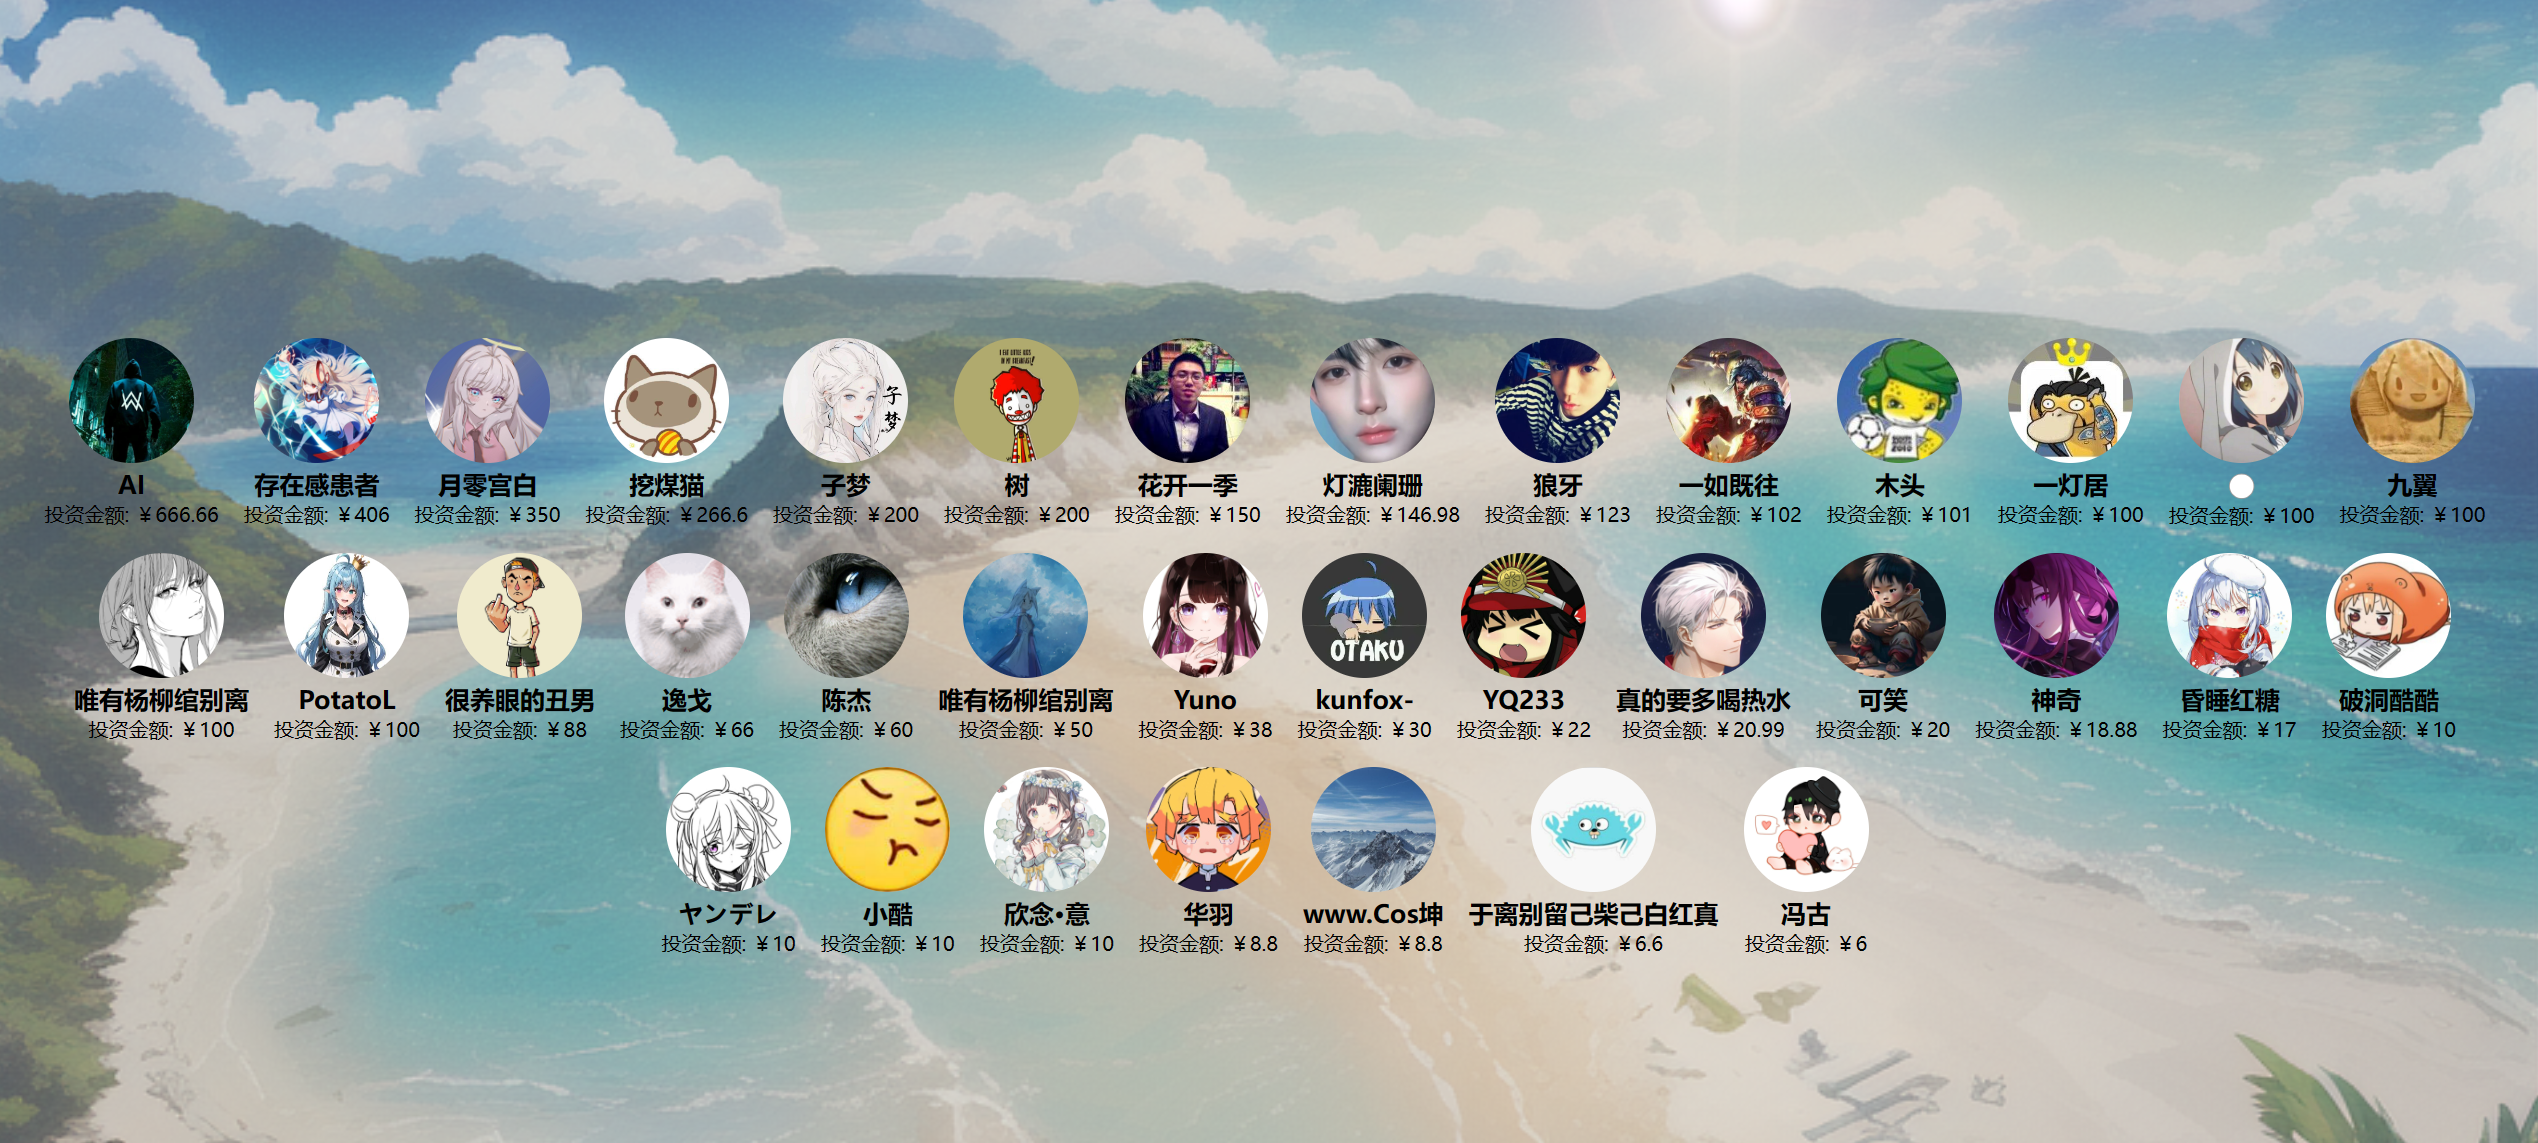
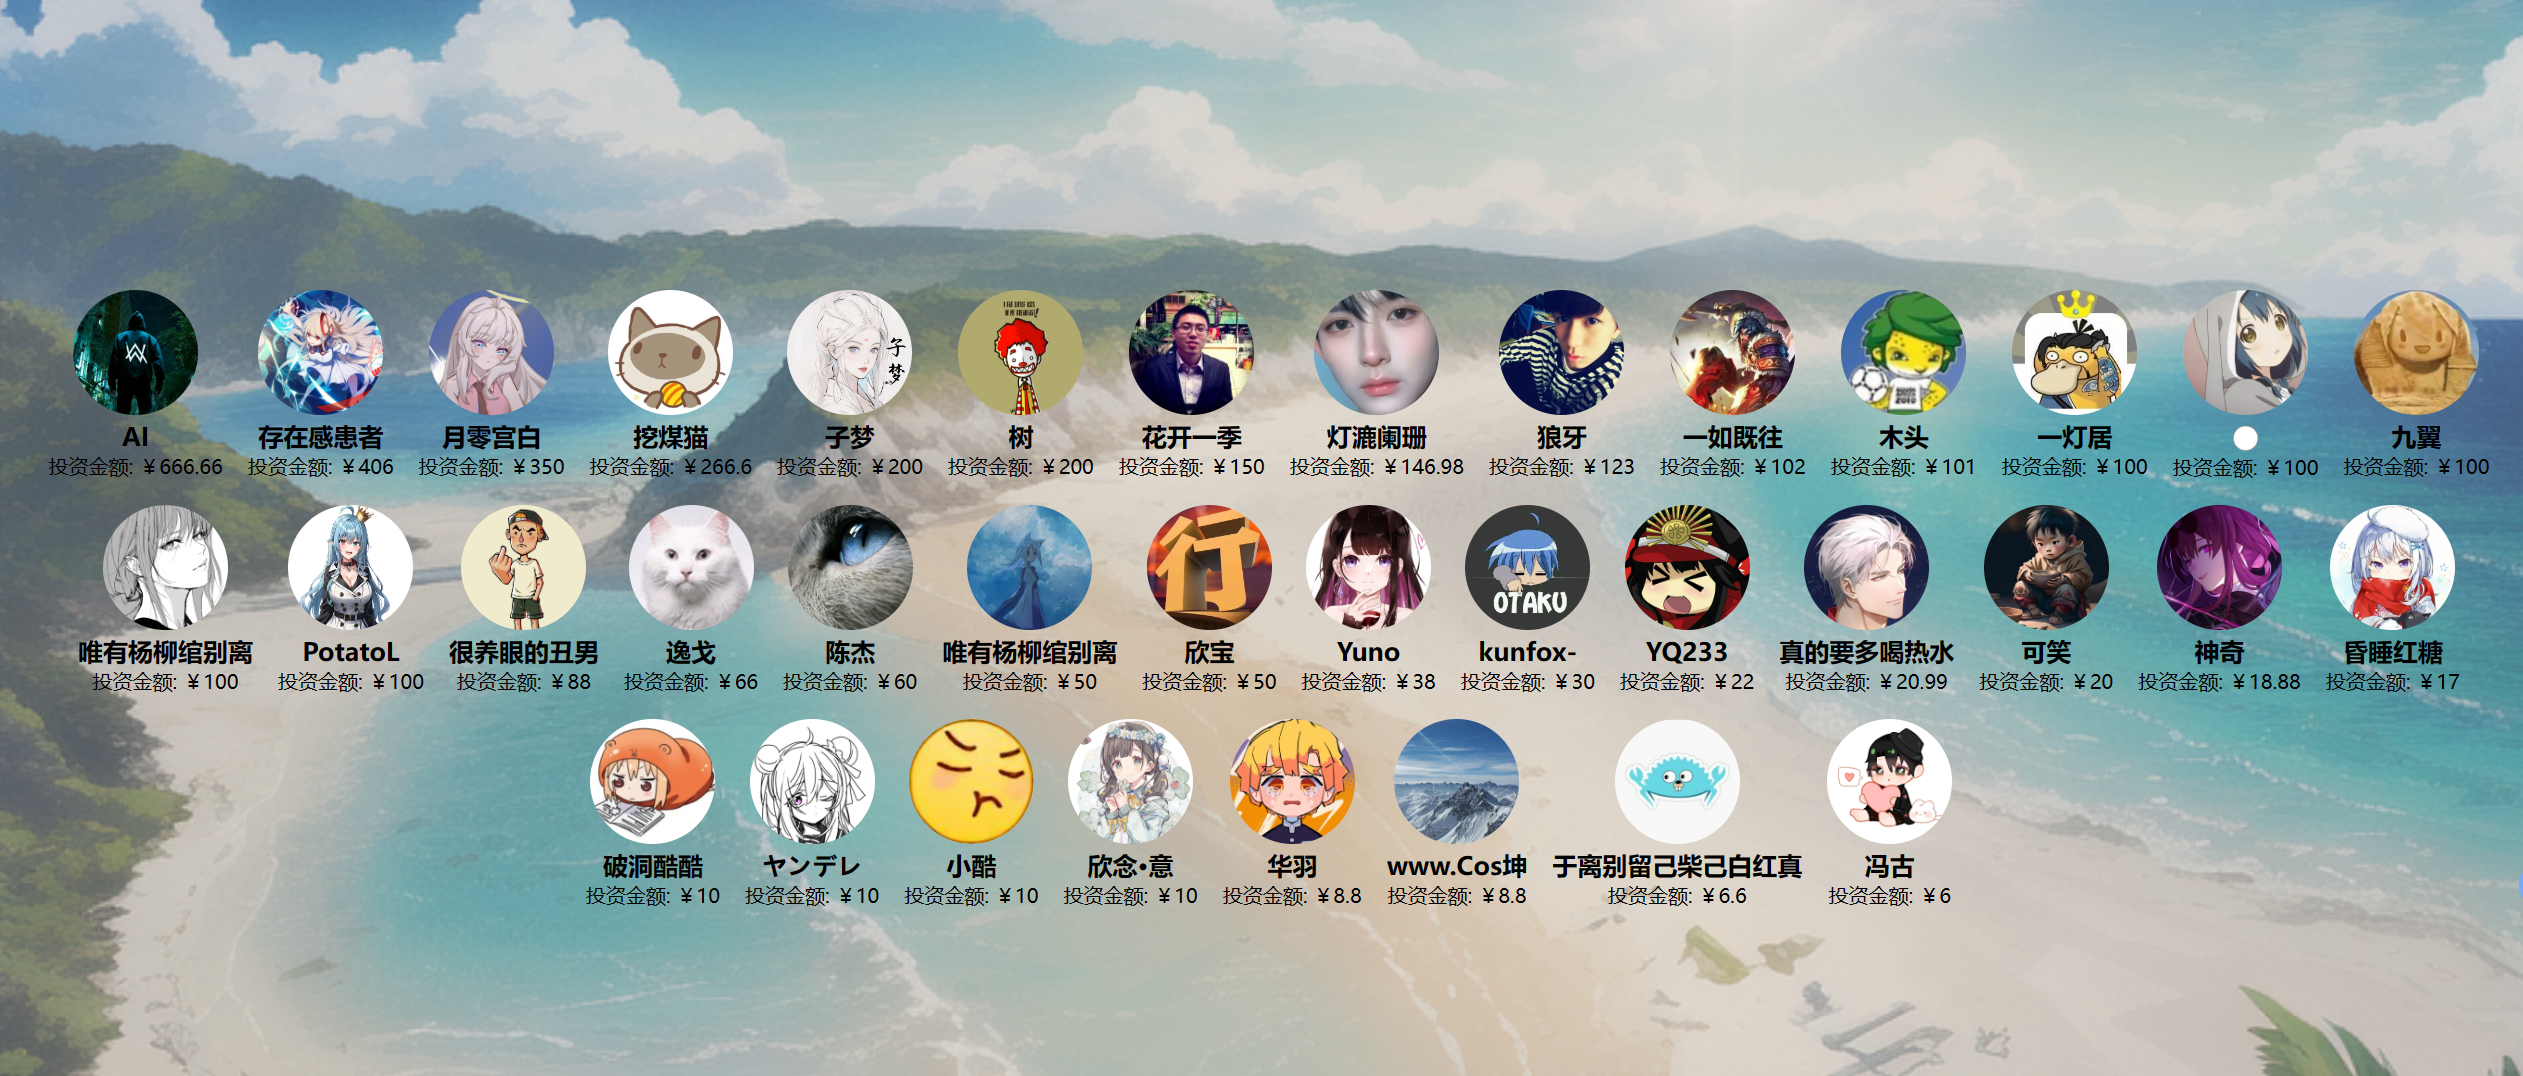
投资人信息更新

diff --git a/docs/投资人/index.html b/docs/投资人/index.html
@@ -152,6 +152,11 @@
             amount: "￥50"
         },
         {
+            name: "欣宝",
+            avatar: "https://images.cnblogs.com/cnblogs_com/ikaros-521/2328032/o_230905110223_%E6%AC%A3%E5%AE%9D.jpg",
+            amount: "￥50"
+        },
+        {
             name: "Yuno",
             avatar: "https://images.cnblogs.com/cnblogs_com/ikaros-521/2328032/o_230719132530_QQ%E5%9B%BE%E7%89%8720230719212024.jpg",
             amount: "￥38"
